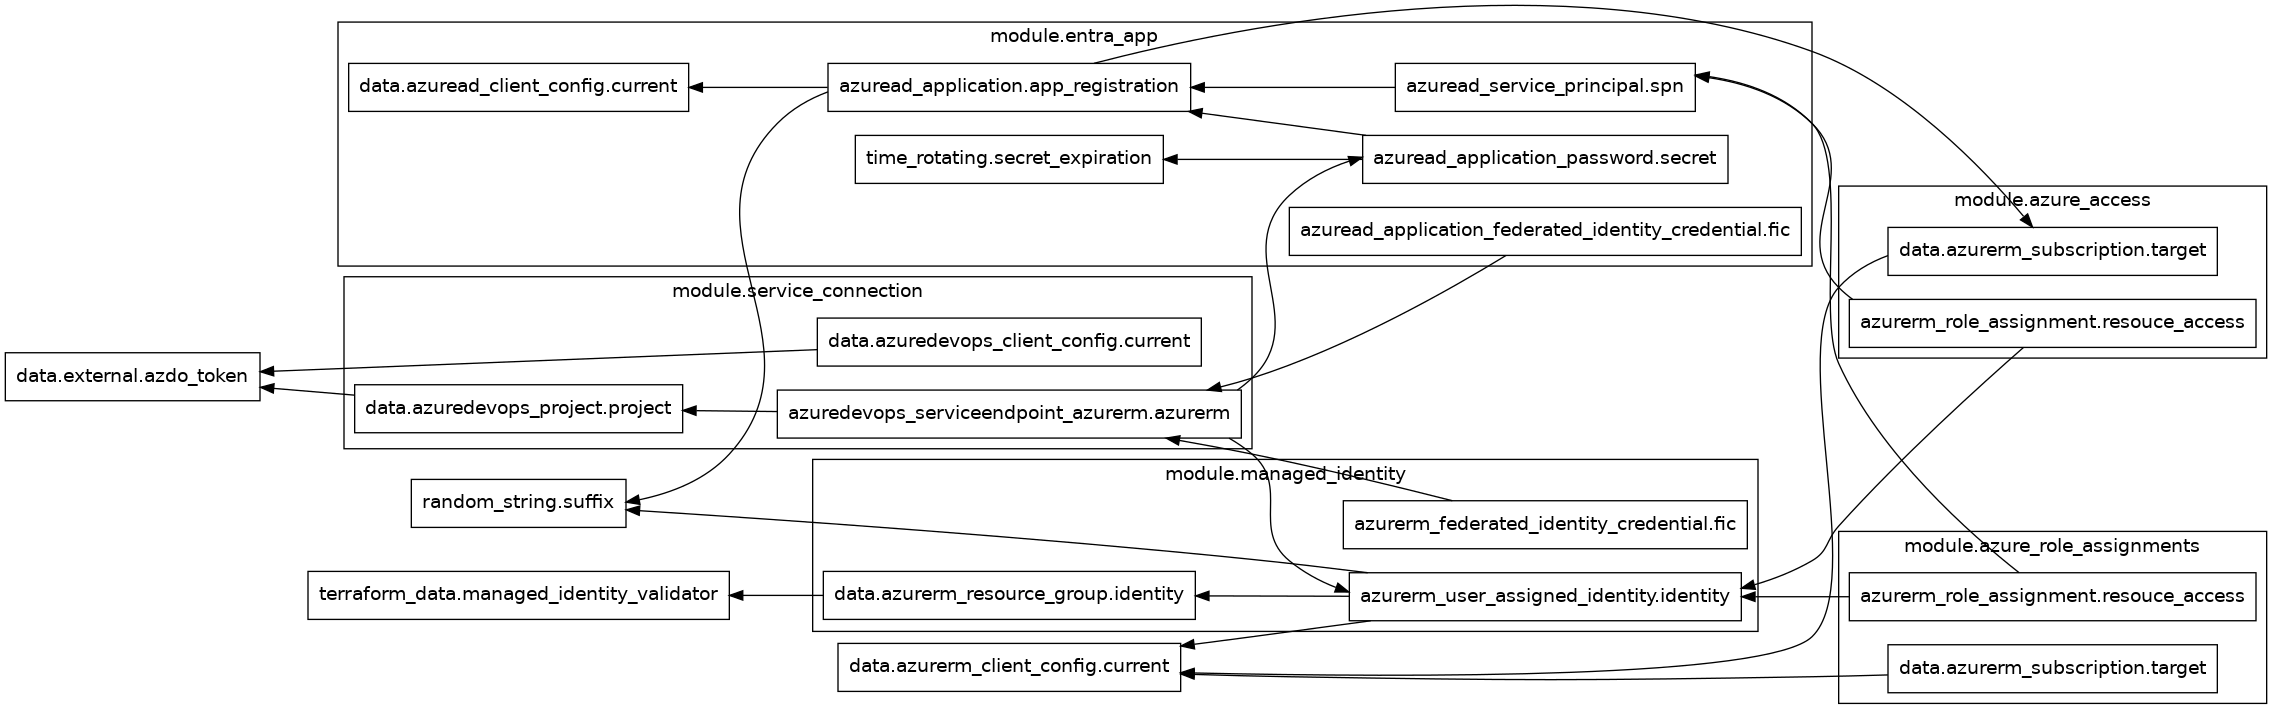
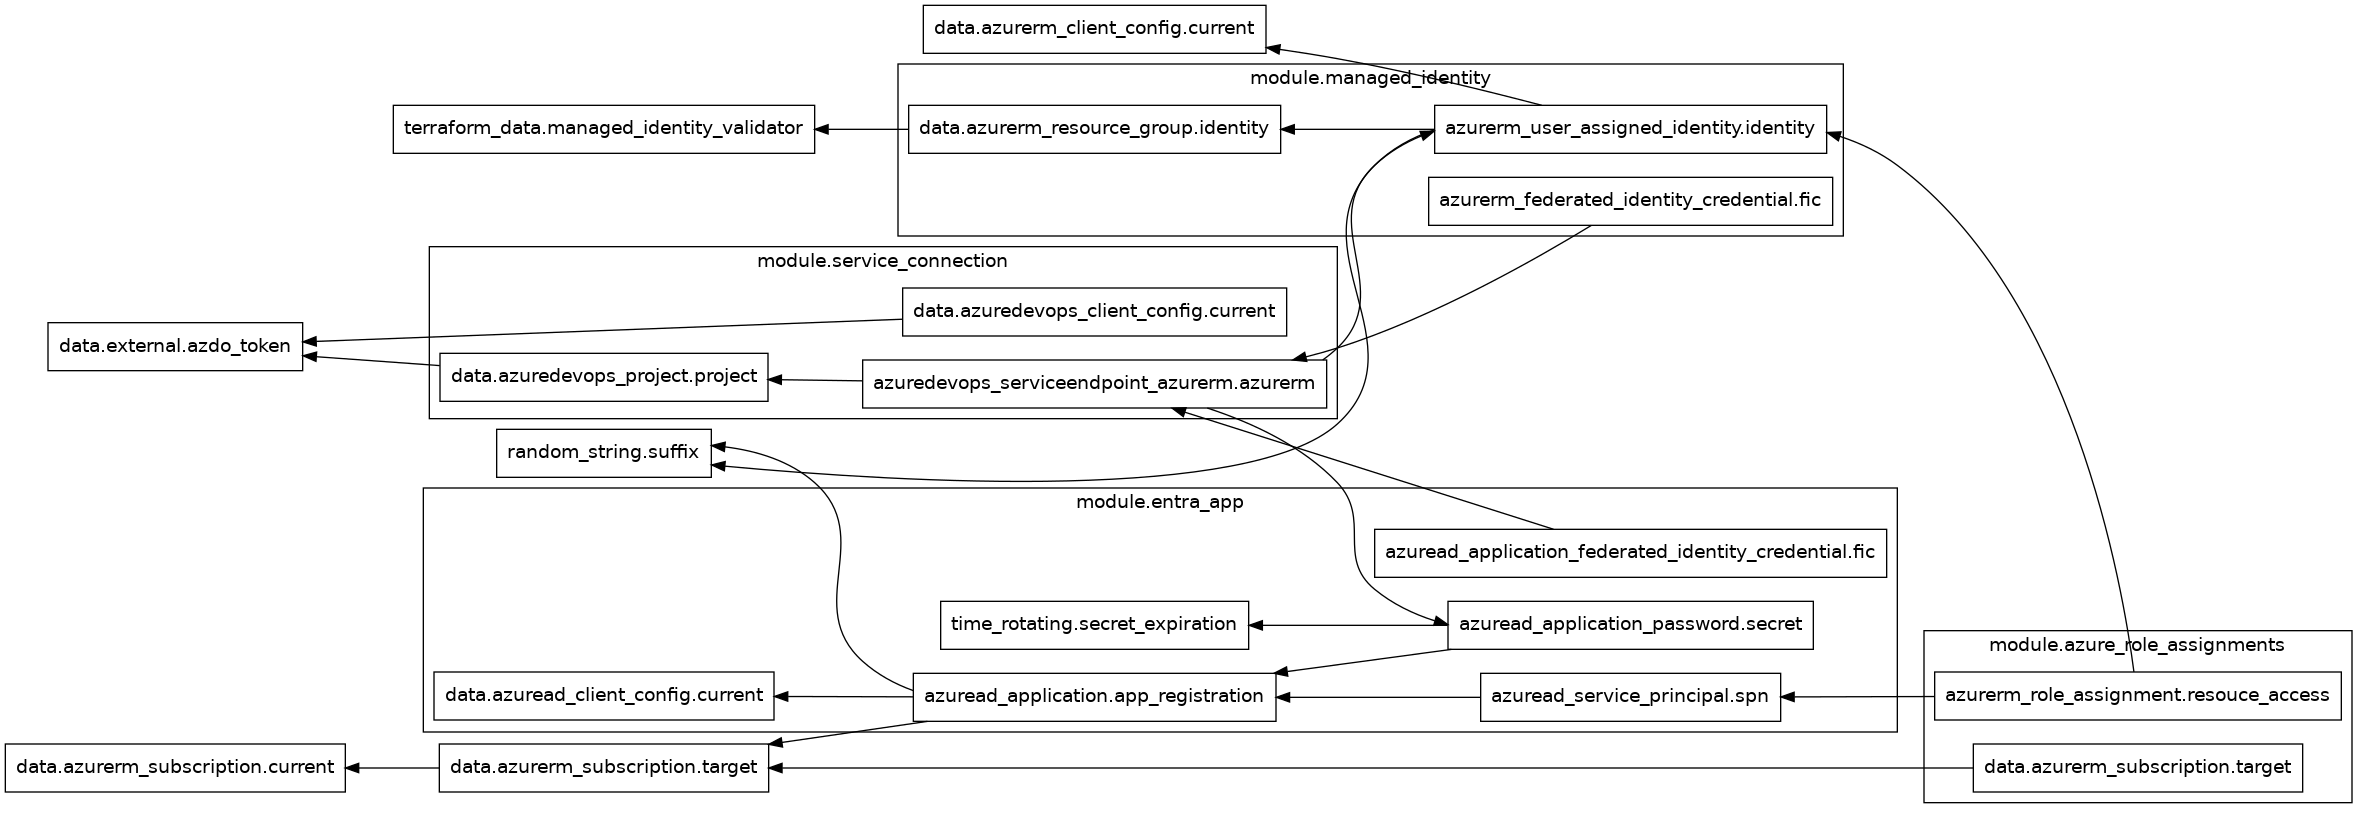
terraform-docs: automated action

diff --git a/terraform/azure-devops/create-service-connection/README.md b/terraform/azure-devops/create-service-connection/README.md
@@ -48,7 +48,6 @@ Provisioning is a matter of specifying [variables](https://developer.hashicorp.c
 
 | Name | Source | Version |
 |------|--------|---------|
-| <a name="module_azure_access"></a> [azure_access](#module_azure_access) | ./modules/azure-access | n/a |
 | <a name="module_azure_role_assignments"></a> [azure_role_assignments](#module_azure_role_assignments) | ./modules/azure-access | n/a |
 | <a name="module_entra_app"></a> [entra_app](#module_entra_app) | ./modules/app-registration | n/a |
 | <a name="module_managed_identity"></a> [managed_identity](#module_managed_identity) | ./modules/managed-identity | n/a |
@@ -61,9 +60,7 @@ Provisioning is a matter of specifying [variables](https://developer.hashicorp.c
 | <a name="input_azdo_organization_url"></a> [azdo_organization_url](#input_azdo_organization_url) | The Azure DevOps organization URL (e.g. https://dev.azure.com/contoso) | `string` |
 | <a name="input_azdo_project_name"></a> [azdo_project_name](#input_azdo_project_name) | The Azure DevOps project name to create the service connection in | `string` |
 | <a name="input_azdo_creates_identity"></a> [azdo_creates_identity](#input_azdo_creates_identity) | Let Azure DevOps create identity for service connection | `bool` |
-| <a name="input_azure_role"></a> [azure_role](#input_azure_role) | The Azure RBAC role to assign to the service connection's identity | `string` |
-| <a name="input_azure_role_assignments"></a> [azure_role_assignments](#input_azure_role_assignments) | Additional role assignments to create for the service connection's identity | `set(object({scope=string, role=string}))` |
-| <a name="input_azure_scope"></a> [azure_scope](#input_azure_scope) | The Azure scope to assign access to | `string` |
+| <a name="input_azure_role_assignments"></a> [azure_role_assignments](#input_azure_role_assignments) | Role assignments to create for the service connection's identity. If this is empty, the Contributor role will be assigned on the azurerm provider subscription. | `set(object({scope=string, role=string}))` |
 | <a name="input_create_federation"></a> [create_federation](#input_create_federation) | Use workload identity federation instead of a App Registration secret | `bool` |
 | <a name="input_create_managed_identity"></a> [create_managed_identity](#input_create_managed_identity) | Creates a Managed Identity instead of a App Registration | `bool` |
 | <a name="input_entra_owner_object_ids"></a> [entra_owner_object_ids](#input_entra_owner_object_ids) | Object ids of the users that will be co-owners of the Entra ID app registration | `list(string)` |
@@ -82,9 +79,7 @@ Provisioning is a matter of specifying [variables](https://developer.hashicorp.c
 | <a name="output_azdo_service_connection_id"></a> [azdo_service_connection_id](#output_azdo_service_connection_id) | The Azure DevOps service connection id |
 | <a name="output_azdo_service_connection_name"></a> [azdo_service_connection_name](#output_azdo_service_connection_name) | The Azure DevOps service connection name |
 | <a name="output_azdo_service_connection_url"></a> [azdo_service_connection_url](#output_azdo_service_connection_url) | The Azure DevOps service connection portal URL |
-| <a name="output_azure_resource_group_name"></a> [azure_resource_group_name](#output_azure_resource_group_name) | The name of the resource group the service connection was granted access to |
-| <a name="output_azure_scope"></a> [azure_scope](#output_azure_scope) | The Azure scope the service connection was granted access to |
-| <a name="output_azure_scope_url"></a> [azure_scope_url](#output_azure_scope_url) | The Azure scope portal URL the service connection was granted access to |
+| <a name="output_azure_role_assignments"></a> [azure_role_assignments](#output_azure_role_assignments) | Role assignments created for the service connection's identity |
 | <a name="output_azure_subscription_id"></a> [azure_subscription_id](#output_azure_subscription_id) | The Azure subscription id the service connection was granted access to |
 | <a name="output_azure_subscription_name"></a> [azure_subscription_name](#output_azure_subscription_name) | The Azure subscription name the service connection was granted access to |
 | <a name="output_identity_application_id"></a> [identity_application_id](#output_identity_application_id) | The app/client id of the service connection's identity |
